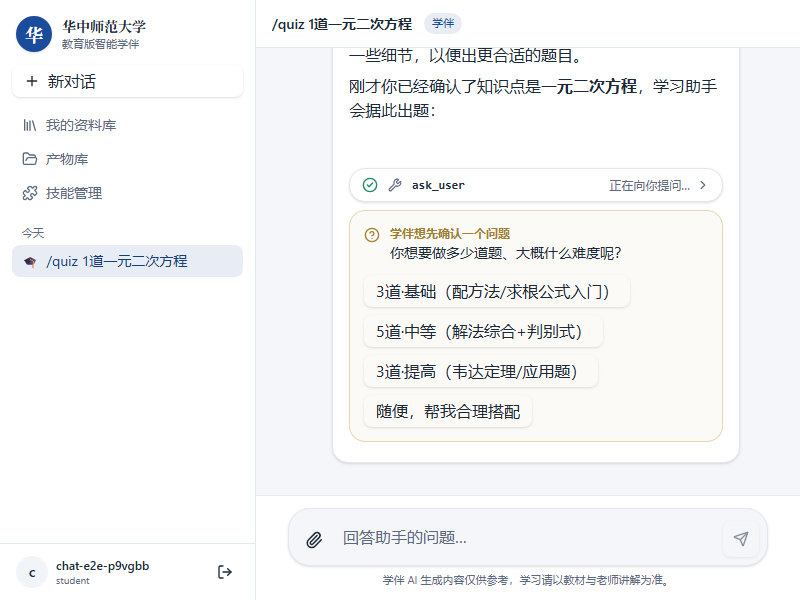
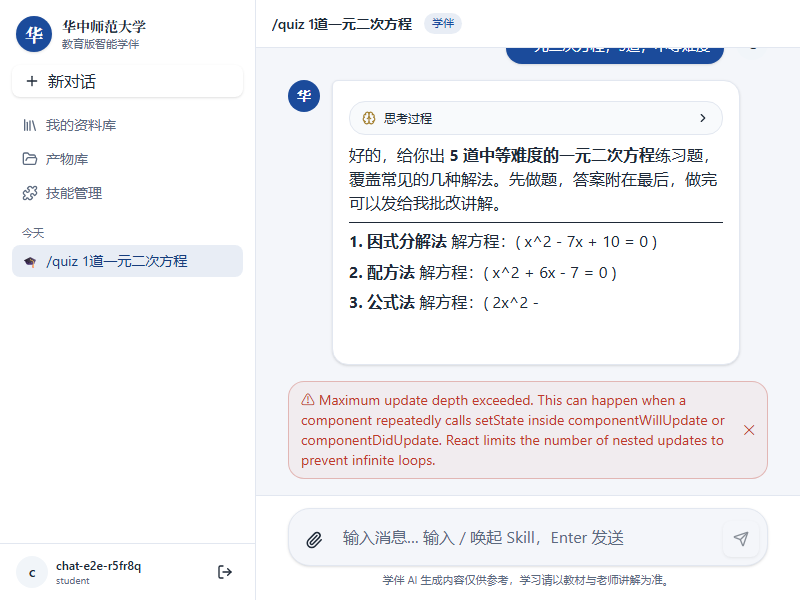
feat(model): 接入 deepseek-v4-flash + 全量思考模式(reasoning_effort=low)
- config: 新增 OPENAI_REASONING_EFFORT（默认 low，空=关闭）
- model: 请求带 reasoning_effort + thinking(enabled，仅 deepseek 域)；
  流式解析 reasoning_content → KindReasoning 事件；Msg 支持回传 reasoning_content
- agent: 工具轮回传思考链（官方要求携带 tools 时回传）；EventReasoning 转发
- gateway: reasoning-start/delta/end chunk 输出（思考卡前端已就绪，零改动）
- .env/compose: OPENAI_MODEL=deepseek-v4-flash，ECS 同步

diff --git a/server/internal/model/model.go b/server/internal/model/model.go
@@ -29,6 +29,7 @@ const (
 type Msg struct {
 	Role       string     `json:"role"`
 	Content    string     `json:"content,omitempty"`
+	Reasoning  string     `json:"reasoning_content,omitempty"` // 思考链（携带 tools 时需回传）
 	ToolCallID string     `json:"tool_call_id,omitempty"`
 	ToolCalls  []ToolCall `json:"tool_calls,omitempty"`
 }
@@ -101,11 +102,12 @@ type ToolFunction struct {
 type EventKind string
 
 const (
-	KindDelta    EventKind = "delta"     // 文本增量
-	KindToolCall EventKind = "tool_call" // 模型请求调用工具（已聚合完整参数）
-	KindUsage    EventKind = "usage"     // token 用量
-	KindEnd      EventKind = "end"       // 本轮流结束
-	KindError    EventKind = "error"     // 出错
+	KindDelta      EventKind = "delta"      // 文本增量
+	KindReasoning  EventKind = "reasoning"  // 思考链增量（reasoning_content）
+	KindToolCall   EventKind = "tool_call"  // 模型请求调用工具（已聚合完整参数）
+	KindUsage      EventKind = "usage"      // token 用量
+	KindEnd        EventKind = "end"        // 本轮流结束
+	KindError      EventKind = "error"      // 出错
 )
 
 type Event struct {
@@ -153,18 +155,25 @@ type OpenAIProvider struct {
 }
 
 type openAIChatRequest struct {
-	Model    string `json:"model"`
-	Messages []Msg  `json:"messages"`
-	Tools    []Tool `json:"tools,omitempty"`
-	Stream   bool   `json:"stream"`
+	Model           string        `json:"model"`
+	Messages        []Msg         `json:"messages"`
+	Tools           []Tool        `json:"tools,omitempty"`
+	Stream          bool          `json:"stream"`
+	ReasoningEffort string        `json:"reasoning_effort,omitempty"` // 思考强度 low/high/max（OpenAI 兼容）
+	Thinking        *thinkingOpenAIRequest `json:"thinking,omitempty"` // DeepSeek 思考模式开关
+}
+
+type thinkingOpenAIRequest struct {
+	Type string `json:"type"` // enabled / disabled
 }
 
 type openAIStreamChunk struct {
 	Choices []struct {
 		Index int `json:"index"`
 		Delta struct {
-			Content   string `json:"content"`
-			ToolCalls []struct {
+			Content          string `json:"content"`
+			ReasoningContent string `json:"reasoning_content"` // 思考链增量
+			ToolCalls        []struct {
 				Index    int    `json:"index"`
 				ID       string `json:"id"`
 				Function struct {
@@ -177,12 +186,25 @@ type openAIStreamChunk struct {
 	Usage *Usage `json:"usage"`
 }
 
-func (p *OpenAIProvider) ChatStream(ctx context.Context, req ChatRequest) (<-chan Event, error) {
+// buildOpenAIRequest 组装 OpenAI 兼容请求（含思考模式参数）。
+// 思考模式：OPENAI_REASONING_EFFORT 非空时开启；thinking 开关仅对 deepseek 域下发（OpenAI 无此参数）。
+func (p *OpenAIProvider) buildOpenAIRequest(req ChatRequest, stream bool) openAIChatRequest {
 	model := req.Model
 	if model == "" {
 		model = p.cfg.OpenAIModel
 	}
-	body, err := json.Marshal(openAIChatRequest{Model: model, Messages: req.Messages, Tools: req.Tools, Stream: true})
+	r := openAIChatRequest{Model: model, Messages: req.Messages, Tools: req.Tools, Stream: stream}
+	if effort := p.cfg.OpenAIReasoningEffort; effort != "" {
+		r.ReasoningEffort = effort
+		if strings.Contains(p.cfg.OpenAIBaseURL, "deepseek.com") {
+			r.Thinking = &thinkingOpenAIRequest{Type: "enabled"}
+		}
+	}
+	return r
+}
+
+func (p *OpenAIProvider) ChatStream(ctx context.Context, req ChatRequest) (<-chan Event, error) {
+	body, err := json.Marshal(p.buildOpenAIRequest(req, true))
 	if err != nil {
 		return nil, err
 	}
@@ -206,11 +228,7 @@ func (p *OpenAIProvider) ChatStream(ctx context.Context, req ChatRequest) (<-cha
 }
 
 func (p *OpenAIProvider) Complete(ctx context.Context, req ChatRequest) (string, *Usage, error) {
-	model := req.Model
-	if model == "" {
-		model = p.cfg.OpenAIModel
-	}
-	body, err := json.Marshal(openAIChatRequest{Model: model, Messages: req.Messages, Stream: false})
+	body, err := json.Marshal(p.buildOpenAIRequest(req, false))
 	if err != nil {
 		return "", nil, err
 	}
@@ -305,6 +323,9 @@ func (p *OpenAIProvider) parseStream(ctx context.Context, r io.Reader, out chan<
 			out <- Event{Kind: KindUsage, Usage: chunk.Usage}
 		}
 		for _, ch := range chunk.Choices {
+			if ch.Delta.ReasoningContent != "" {
+				out <- Event{Kind: KindReasoning, Content: ch.Delta.ReasoningContent}
+			}
 			if ch.Delta.Content != "" {
 				out <- Event{Kind: KindDelta, Content: ch.Delta.Content}
 			}

diff --git a/server/internal/gateway/chat_handlers.go b/server/internal/gateway/chat_handlers.go
@@ -157,12 +157,32 @@ func (c *chatService) stream(w http.ResponseWriter, r *http.Request) {
 	toolStartAt := map[string]time.Time{} // name#seq → 开始时间
 	toolCalls := map[string]int{}         // name → 已发起次数（兼作指标）
 	textStarted := false                  // 是否已输出 text-start（结束需补 text-end）
+	reasoningStarted := false             // 思考链 part 状态（start/delta/end 三件套）
+	reasoningEnded := false
 	errorMsg := ""
-	const textPartID = "text" // 单流内文本 part 的固定 id（start/delta/end 关联）
+	const textPartID = "text"  // 单流内文本 part 的固定 id（start/delta/end 关联）
+	const reasoningPartID = "r1" // 单流内思考 part 的固定 id
+
+	// endReasoning 输出 reasoning-end（若还在流式思考中）。
+	endReasoning := func() {
+		if reasoningStarted && !reasoningEnded {
+			writeUIChunk(w, map[string]any{"type": "reasoning-end", "id": reasoningPartID})
+			reasoningEnded = true
+			flusher.Flush()
+		}
+	}
 
 	for ev := range evCh {
 		switch ev.Kind {
+		case agent.EventReasoning:
+			if !reasoningStarted {
+				writeUIChunk(w, map[string]any{"type": "reasoning-start", "id": reasoningPartID})
+				reasoningStarted = true
+			}
+			writeUIChunk(w, map[string]any{"type": "reasoning-delta", "id": reasoningPartID, "delta": ev.Content})
+			flusher.Flush()
 		case agent.EventDelta:
+			endReasoning() // 思考结束 → 正式回答
 			sb.WriteString(ev.Content)
 			if !textStarted {
 				writeUIChunk(w, map[string]any{"type": "text-start", "id": textPartID})
@@ -258,6 +278,7 @@ func (c *chatService) stream(w http.ResponseWriter, r *http.Request) {
 		writeUIChunk(w, map[string]any{"type": "text-end", "id": textPartID})
 		flusher.Flush()
 	}
+	endReasoning() // 流结束时兜底关闭思考 part
 
 	// 记录 Agent 指标（异步写库：用独立 ctx，避免客户端断开后 insert 失败）
 	go func() {

diff --git a/server/internal/agent/agent.go b/server/internal/agent/agent.go
@@ -32,6 +32,7 @@ type EventKind string
 
 const (
 	EventDelta      EventKind = "delta"
+	EventReasoning  EventKind = "reasoning" // 思考链增量（reasoning_content）
 	EventToolCall   EventKind = "tool_call"
 	EventToolResult EventKind = "tool_result"
 	EventAsk        EventKind = "ask" // 需要向学生提问（暂停等待回答）
@@ -193,6 +194,7 @@ func runLLMLoop(ctx context.Context, prov model.Provider, reg *skill.Registry, e
 			return
 		}
 		var calls []model.ToolCall
+		var roundReasoning strings.Builder // 本轮思考链（工具轮次需回传 reasoning_content）
 		for ev := range evCh {
 			if ctx.Err() != nil {
 				return
@@ -200,6 +202,9 @@ func runLLMLoop(ctx context.Context, prov model.Provider, reg *skill.Registry, e
 			switch ev.Kind {
 			case model.KindDelta:
 				out <- Event{Kind: EventDelta, Content: ev.Content}
+			case model.KindReasoning:
+				roundReasoning.WriteString(ev.Content)
+				out <- Event{Kind: EventReasoning, Content: ev.Content}
 			case model.KindToolCall:
 				if ev.ToolCall != nil {
 					calls = append(calls, *ev.ToolCall)
@@ -216,7 +221,12 @@ func runLLMLoop(ctx context.Context, prov model.Provider, reg *skill.Registry, e
 			out <- Event{Kind: EventEnd, Usage: total}
 			return
 		}
-		msgs = append(msgs, model.Msg{Role: model.RoleAssistant, Content: "", ToolCalls: calls})
+		msgs = append(msgs, model.Msg{
+			Role:       model.RoleAssistant,
+			Content:    "",
+			Reasoning:  roundReasoning.String(), // 携带 tools 时官方要求回传思考链
+			ToolCalls:  calls,
+		})
 
 		// 逐个执行；若某 Skill 返回 Ask（如 ask_user），暂停等学生回答，结束本轮。
 		for _, tc := range calls {

diff --git a/server/internal/config/config.go b/server/internal/config/config.go
@@ -17,6 +17,7 @@ type Config struct {
 	OpenAIAPIKey    string
 	OpenAIBaseURL   string
 	OpenAIModel     string
+	OpenAIReasoningEffort string // 思考模式强度（low/high/max；空 = 关闭；默认 low）
 	DatabaseURL     string // 空 = 使用内存 store（本地开发演示）
 	WebDist         string // 前端静态资源目录（空 = 不托管前端）
 	SkillsDir       string // SKILL.md 技能目录（默认 ./skills）
@@ -72,6 +73,7 @@ func Load() *Config {
 		OpenAIAPIKey:    os.Getenv("OPENAI_API_KEY"),
 		OpenAIBaseURL:   getenv("OPENAI_BASE_URL", "https://api.openai.com/v1"),
 		OpenAIModel:     getenv("OPENAI_MODEL", "gpt-4o-mini"),
+		OpenAIReasoningEffort: getenv("OPENAI_REASONING_EFFORT", "low"),
 		DatabaseURL:     os.Getenv("DATABASE_URL"),
 		WebDist:         os.Getenv("WEB_DIST"),
 		SkillsDir:       getenv("SKILLS_DIR", "skills"),
